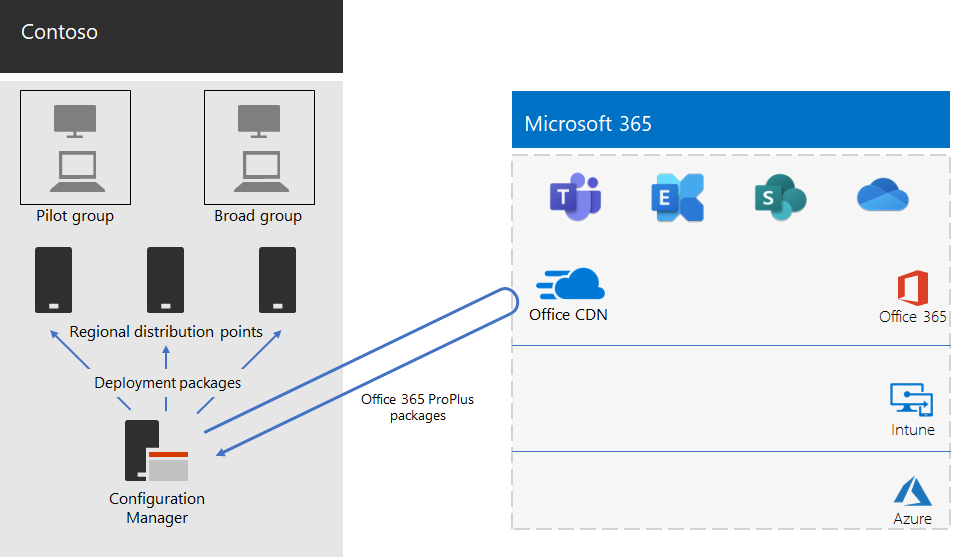
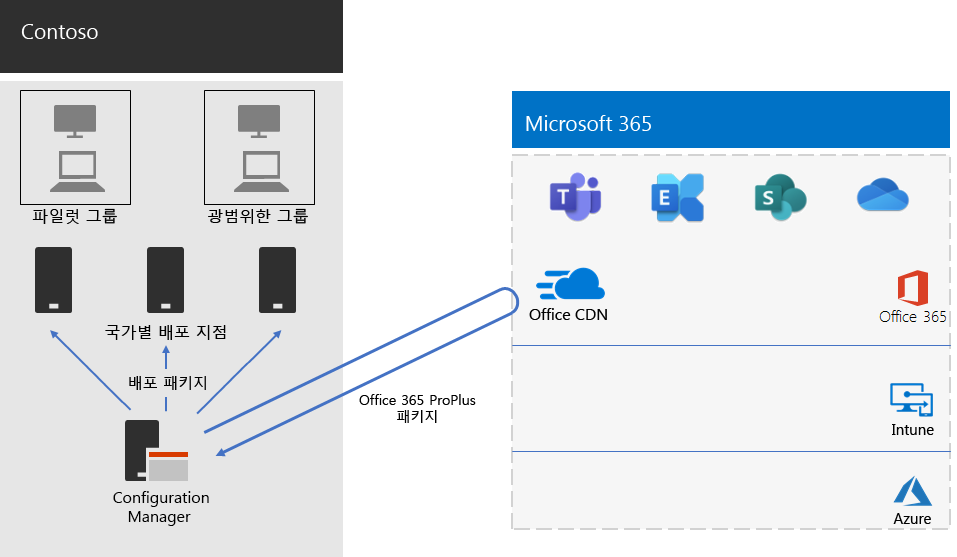
commit translated contents

diff --git a/microsoft-365/enterprise/step-6-os-deployment-and-feature-updates.md b/microsoft-365/enterprise/step-6-os-deployment-and-feature-updates.md
@@ -13,12 +13,12 @@ ms.collection:
 - Strat_O365_Enterprise
 ms.custom: ''
 description: OS 배포 및 기능 업데이트를 위한 옵션을 알아봅니다.
-ms.openlocfilehash: c789ac0d62fd0b8c915f21174cae2b81e49e0c97
-ms.sourcegitcommit: 70e920f76526f47fc849df615de4569e0ac2f4be
+ms.openlocfilehash: 7da7c9ade2be43e8c60726bafd69cc7939b7bddc
+ms.sourcegitcommit: 39bd4be7e8846770f060b5dd7d895fc8040b18f5
 ms.translationtype: HT
 ms.contentlocale: ko-KR
-ms.lasthandoff: 11/07/2019
-ms.locfileid: "38031673"
+ms.lasthandoff: 01/14/2020
+ms.locfileid: "41112682"
 ---
 # <a name="step-6-os-deployment-and-feature-updates"></a>6단계: 운영 체제 배포 및 기능 업데이트
 
@@ -49,13 +49,13 @@ ms.locfileid: "38031673"
 
 이미지 캡처를 진행하면서 최고 품질의 이미지 및 반복 가능한 프로세스를 보장하려면 가능한 한 많은 작업을 자동화하는 것이 좋습니다. 대부분의 배포에서는 캡처하기 전에 Windows 이미지에 가능한 한 적은 사용자 지정과 미리 설치된 앱을 배치하는 것이 좋습니다. 이것이 소위 말하는 ‘씬 이미지’ 접근 방식입니다. 이 방식은 이미지 내의 많은 앱을 제거하여 네트워크의 전체적인 대역폭을 절약할 수 있는 방법입니다. 씬 기본 이미지로 시작하고 사용자에게 맞게 앱, 언어 및 구성에 대해 계층을 동적으로 구성할 수 있습니다.
 
-빌드 및 캡처 중 프로세스 동안 System Center Configuration Manager(현재 분기) 및 Microsoft Deployment Toolkit와 같은 도구는 시스템 준비 도구(또는 Sysprep)와 "일반화" 명령을 함께 사용하여 Windows 10 설치를 이미지로 캡처하기 전에 이미지를 다시 봉인합니다.
+빌드 및 캡처 중 프로세스 동안 Microsoft Endpoint Configuration Manager(현재 분기) 및 Microsoft Deployment Toolkit와 같은 도구는 시스템 준비 도구(또는 Sysprep)와 "일반화" 명령을 함께 사용하여 Windows 10 설치를 이미지로 캡처하기 전에 이미지를 다시 봉인합니다.
 
-캡처한 이미지에는 Windows 이미지 또는 표준 Windows 설치 미디어와 같은 형식을 갖는 WIM이 포함됩니다. 사용자 지정 WIM 파일이 있으면 System Center Configuration Manager 또는 Microsoft Deployment Toolkit에서 OS 배포의 일부로 다른 작업 시퀀스를 사용하여 배포 관련 작업을 수행하고, 이미지를 적용하고, 환으로 Windows 이미지 적용 전후에 작업을 실행할 수 있습니다.
+캡처한 이미지에는 Windows 이미지 또는 표준 Windows 설치 미디어와 같은 형식을 갖는 WIM이 포함됩니다. 사용자 지정 WIM 파일이 있으면 Configuration Manager 또는 Microsoft Deployment Toolkit에서 OS 배포의 일부로 다른 작업 시퀀스를 사용하여 배포 관련 작업을 수행하고, 이미지를 적용하고, 환으로 Windows 이미지 적용 전후에 작업을 실행할 수 있습니다.
 
 [Windows 10 참조 이미지 만들기](https://docs.microsoft.com/windows/deployment/deploy-windows-mdt/create-a-windows-10-reference-image)
 
-[운영 체제를 설치하는 작업 시퀀스 만들기](https://docs.microsoft.com/sccm/osd/deploy-use/create-a-task-sequence-to-install-an-operating-system)
+[운영 체제를 설치하는 작업 시퀀스 만들기](https://docs.microsoft.com/configmgr/osd/deploy-use/create-a-task-sequence-to-install-an-operating-system)
 
 ### <a name="deployment-types"></a>배포 유형
 
@@ -73,7 +73,7 @@ ms.locfileid: "38031673"
 
 ### <a name="in-place-upgrade-using-task-sequence-automation"></a>작업 시퀀스 자동화를 사용한 현재 위치 업그레이드
 
-이러한 배포 유형 외에도, Windows 10을 포함하는 System Center Configuration Manager(현재 분기) 작업 시퀀스 및 업그레이드 작업 시퀀스를 사용한 현재 위치 업그레이드도 새롭게 사용할 수 있는 옵션입니다.
+이러한 배포 유형 외에도, Windows 10을 포함하는 Microsoft Endpoint Configuration Manager(현재 분기) 작업 시퀀스 및 업그레이드 작업 시퀀스를 사용한 현재 위치 업그레이드도 새롭게 사용할 수 있는 옵션입니다.
 
 이전 버전의 Windows에서 현재 위치 업그레이드를 수행하려면 작업 시퀀스가 필요하지 않지만, 엔터프라이즈 규모에서 배포할 때는 작업 시퀀스가 권장됩니다. 현재 위치 업그레이드에서는 응용 프로그램을 포함하는 사용자 지정 이미지를 적용할 수 었지만, 오프라인 서비스를 사용하여 기본 install.wim을 업데이트할 수 있습니다. 예를 들어 업그레이드를 수행하기 전에 최신 Windows 업데이트가 적용되었는지 확인할 수 있습니다.
 
@@ -87,7 +87,7 @@ ms.locfileid: "38031673"
 
 [Configuration Manager를 사용하여 Windows 10으로의 현재 위치 업그레이드 수행](https://docs.microsoft.com/windows/deployment/upgrade/upgrade-to-windows-10-with-system-center-configuraton-manager)
 
-[Configuration Manager에서 OS를 업그레이드하는 작업 시퀀스 만들기](https://docs.microsoft.com/sccm/osd/deploy-use/create-a-task-sequence-to-upgrade-an-operating-system)
+[Configuration Manager에서 OS를 업그레이드하는 작업 시퀀스 만들기](https://docs.microsoft.com/configmgr/osd/deploy-use/create-a-task-sequence-to-upgrade-an-operating-system)
 
 ### <a name="phased-deployment"></a>단계별 배포
 
@@ -95,11 +95,11 @@ ms.locfileid: "38031673"
 
 ![](media/step-6-os-deployment-and-feature-updates-media/step-6-os-deployment-and-feature-updates-media-4.png)
 
-### <a name="recommended-tools-system-center-configuration-manager-current-branch-and-the-microsoft-deployment-toolkit"></a>권장 도구: System Center Configuration Manager(현재 분기) 및 Microsoft Deployment Toolkit
+### <a name="recommended-tools-microsoft-endpoint-configuration-manager-current-branch-and-the-microsoft-deployment-toolkit"></a>권장 도구: Microsoft Endpoint Configuration Manager(현재 분기) 및 Microsoft Deployment Toolkit
 
 선택하는 배포 유형에 관계없이, 예측 가능성 및 반복 가능성을 위해 가능한 한 자동화될 수 있는지 확인할 수 있습니다. Microsoft는 자동화된 작업 시퀀스를 사용하여 OS 배포를 자동화하기 위한 다음 두 가지 솔루션을 제공합니다.
 
-  - **[System Center Configuration Manager](https://docs.microsoft.com/sccm/core/understand/introduction)**(ConfigMgr)는 소프트웨어 배포 및 소프트웨어 업데이트 관리를 위한 기능을 보완하기 위해 기본 제공 운영 체제 소프트웨어 배포 기능을 제공합니다. ConfigMgr은 모든 규모의 조직에서 광범위하게 사용되며, 4가지 Windows 배포 유형을 모두 지원합니다. 필요에 따라 Microsoft Intune에 ConfigMgr을 통합하여 배포 및 장치 관리를 위한 추가 기능을 추가할 수 있습니다.
+  - **[Microsoft Endpoint Configuration Manager](https://docs.microsoft.com/configmgr/core/understand/introduction)**(ConfigMgr)는 소프트웨어 배포 및 소프트웨어 업데이트 관리를 위한 기능을 보완하기 위해 기본 제공 운영 체제 소프트웨어 배포 기능을 제공합니다. ConfigMgr은 모든 규모의 조직에서 광범위하게 사용되며, 4가지 Windows 배포 유형을 모두 지원합니다. 필요에 따라 Microsoft Intune에 ConfigMgr을 통합하여 배포 및 장치 관리를 위한 추가 기능을 추가할 수 있습니다.
 
   - 또한 인기 있는 다른 배포 옵션 중 하나는 무료 **[Microsoft Deployment Toolkit](https://docs.microsoft.com/windows/deployment/deploy-windows-mdt/get-started-with-the-microsoft-deployment-toolkit)**(MDT)으로, 일반적으로 중소기업이 OS 배포에 사용합니다. 이 도구 키트에는 약간의 인프라만 필요합니다. MDT는 네트워크 부을 위해 WDS(Windows 배포 서비스)와 통합됩니다. 4가지 배포 유형과 응용 프로그램, 드라이버 및 설정 설치를 모두 지원합니다. 또한 MDT를 Configuration Manager와 통합할 수도 있습니다.
 
@@ -117,7 +117,7 @@ Windows 10에 새롭게 제공되는 옵션은 Windows Autopilot을 사용하여
 
 ## <a name="windows-update-for-business-for-feature-updates"></a>기능 업데이트를 위한 비즈니스용 Windows 업데이트
 
-비즈니스용 Windows 업데이트는 IT 전문가가 디바이스를 Windows 업데이트 서비스에 직접 연결하여 Windows 10 디바이스를 항상 최신 상태로 유지할 수 있도록 하는 무료 서비스입니다. 비즈니스용 Windows 업데이트는 그룹 정책 또는 MDM 솔루션(예: Microsoft Intune)을 통해 구성할 수 있으며, IT 전문가가 새 빌드가 유효한지 검사하기 위한 [배포 링](https://docs.microsoft.com/windows/deployment/update/waas-deployment-rings-windows-10-updates)을 만들 수 있도록 지원합니다. 이 기능은 WSUS(Windows Server Update Services), System Center Configuration Manager(현재 분기) 및 Microsoft Intune 등과 같은 기존 관리 도구에 통합됩니다. 또한 비즈니스용 Windows 업데이트는 대역폭 효율성을 최적화하고 네트워크 정체를 줄이는 데 도움이 되는 피어 투 피어 배달을 지원합니다.
+비즈니스용 Windows 업데이트는 IT 전문가가 디바이스를 Windows 업데이트 서비스에 직접 연결하여 Windows 10 디바이스를 항상 최신 상태로 유지할 수 있도록 하는 무료 서비스입니다. 비즈니스용 Windows 업데이트는 그룹 정책 또는 MDM 솔루션(예: Microsoft Intune)을 통해 구성할 수 있으며, IT 전문가가 새 빌드가 유효한지 검사하기 위한 [배포 링](https://docs.microsoft.com/windows/deployment/update/waas-deployment-rings-windows-10-updates)을 만들 수 있도록 지원합니다. 이 기능은 WSUS(Windows Server Update Services), Microsoft Endpoint Configuration Manager(현재 분기) 및 Microsoft Intune 등과 같은 기존 관리 도구에 통합됩니다. 또한 비즈니스용 Windows 업데이트는 대역폭 효율성을 최적화하고 네트워크 정체를 줄이는 데 도움이 되는 피어 투 피어 배달을 지원합니다.
 
 비즈니스용 Windows 업데이트에 대한 자세한 내용을 다음 설명서를 참조하세요.
 

diff --git a/microsoft-365/enterprise/windows-7-to-windows-10-upgrade-automated.md b/microsoft-365/enterprise/windows-7-to-windows-10-upgrade-automated.md
@@ -13,12 +13,12 @@ ms.collection:
 - Strat_O365_Enterprise
 ms.custom: ''
 description: 대규모 조직을 위한 Windows 7에서 Windows 10으로 자동 업그레이드
-ms.openlocfilehash: 6cf7b25c584b94b077b95b35be58f6cd5ef75ac5
-ms.sourcegitcommit: 547bfc5f1fec7545cbe71b1919454425556c9227
+ms.openlocfilehash: 7bca0a185bccbec1ee857b17817debfd7f06feb0
+ms.sourcegitcommit: 39bd4be7e8846770f060b5dd7d895fc8040b18f5
 ms.translationtype: HT
 ms.contentlocale: ko-KR
-ms.lasthandoff: 11/09/2019
-ms.locfileid: "38078087"
+ms.lasthandoff: 01/14/2020
+ms.locfileid: "41112702"
 ---
 # <a name="windows-7-to-windows-10-automated-in-place-upgrades-for-large-organizations"></a>대규모 조직을 위한 Windows 7에서 Windows 10으로 현재 위치에서 자동 업그레이드
 
@@ -40,7 +40,7 @@ Windows 10의 현재 위치 업그레이드는 파일 마이그레이션 또는 
 
 업그레이드 프로세스는 기본적으로 이전 Windows 설치를 업그레이드의 일부로 백업하므로 업그레이드 실패 시나 장치 또는 응용 프로그램이 업그레이드 후 제대로 작동하지 않는 경우 컴퓨터가 Windows 7로 롤백될 수 있습니다. 업그레이드된 PC는 기본적으로 10일 안에 필요한 경우 수동으로 Windows 7로 롤백할 수 있습니다.
 
-현재 위치 업그레이드는 [System Center Configuration Manager](https://docs.microsoft.com/sccm/osd/deploy-use/create-a-task-sequence-to-upgrade-an-operating-system) 또는 [Microsoft Deployment Toolkit](https://docs.microsoft.com/windows/deployment/upgrade/upgrade-to-windows-10-with-the-microsoft-deployment-toolkit)과 같은 운영 체제 배포 도구를 사용하여 자동화할 수 있습니다. 이 문서에서는 추가 지원을 위해 관련 리소스에 대한 링크와 함께 자동화된 접근 방법과 최적화를 중점적으로 설명합니다.
+현재 위치 업그레이드는 [Microsoft Endpoint Configuration Manager](https://docs.microsoft.com/configmgr/osd/deploy-use/create-a-task-sequence-to-upgrade-an-operating-system) 또는 [Microsoft Deployment Toolkit](https://docs.microsoft.com/windows/deployment/upgrade/upgrade-to-windows-10-with-the-microsoft-deployment-toolkit)과 같은 운영 체제 배포 도구를 사용하여 자동화할 수 있습니다. 이 문서에서는 추가 지원을 위해 관련 리소스에 대한 링크와 함께 자동화된 접근 방법과 최적화를 중점적으로 설명합니다.
 
 ## <a name="upgrading-a-small-number-of-computers"></a>적은 수의 컴퓨터 업그레이드
 
@@ -48,7 +48,7 @@ Windows 10의 현재 위치 업그레이드는 파일 마이그레이션 또는 
 
 ## <a name="how-to-upgrade-many-computers"></a>많은 컴퓨터를 업그레이드하는 방법
 
-수십 또는 수천 대의 컴퓨터를 관리하는 경우 가장 좋은 방법은 System Center Configuration Manager 또는 Microsoft Deployment Toolkit을 사용하여 작업 순서 자동화를 사용하여 현재 위치 업그레이드를 수행하는 것입니다. 이 과정은 업그레이드하는 PC의 수에 따라 대부분의 상황에서 매우 안정적이지만 여전히 규모에 따라 성공할 수 있도록 필요한 테스트 및 제어 기능을 갖추고 있습니다.
+수십 또는 수천 대의 컴퓨터를 관리하는 경우 가장 좋은 방법은 Microsoft Endpoint Configuration Manager 또는 Microsoft Deployment Toolkit을 사용하여 작업 순서 자동화를 사용하여 현재 위치 업그레이드를 수행하는 것입니다. 이 과정은 업그레이드하는 PC의 수에 따라 대부분의 상황에서 매우 안정적이지만 여전히 규모에 따라 성공할 수 있도록 필요한 테스트 및 제어 기능을 갖추고 있습니다.
 
 즉, Azure Active Directory, Office 및 LOB(기간 업무) 앱 제공 및 패키징 및 사용자 파일 마이그레이션과 관련된 디렉토리 준비 또는 작업을 건너 뛸 수 있으므로 업그레이드의 일부로 이러한 측면이 유지되므로 최소한의 보안이 유지되어야 합니다. 이러한 영역은 시간이 지나면서 모두 개선될 수 있습니다.
 
@@ -78,13 +78,13 @@ Windows 10의 현재 위치 업그레이드는 파일 마이그레이션 또는 
 
   - 맬웨어 방지, VPN 또는 가상화와 같은 낮은 수준의 코드 솔루션
 
-[업그레이드 작업 순서](https://docs.microsoft.com/sccm/osd/deploy-use/create-a-task-sequence-to-upgrade-an-operating-system) 서식 파일은 System Center Configuration Manager 현재 분기에 기본 제공되며, 여러 릴리스에서 사용할 수 있습니다. 최근 릴리스에서는 장치 및 Office 호환성 준비 상태를 확인하고 네트워크 트래픽을 줄이며 OneDrive 백업과 같은 새로운 옵션을 구성하는 프로세스가 더욱 효율적으로 수행되도록 하는 System Center Configuration Manager에 대한 중요한 기술 향상이 있었습니다. 이 [Microsoft Mechanics 쇼](https://youtu.be/CYRnAmCD7ls)에서 System Center Configuration Manager OS 배포에 대한 최신 업데이트를 확인하세요.
+[업그레이드 작업 순서](https://docs.microsoft.com/configmgr/osd/deploy-use/create-a-task-sequence-to-upgrade-an-operating-system) 서식 파일은 Microsoft Endpoint Configuration Manager 현재 분기에 기본 제공되며, 여러 릴리스에서 사용할 수 있습니다. 최근 릴리스에서는 장치 및 Office 호환성 준비 상태를 확인하고 네트워크 트래픽을 줄이며 OneDrive 백업과 같은 새로운 옵션을 구성하는 프로세스가 더욱 효율적으로 수행되도록 하는 Configuration Manager에 대한 중요한 기술 향상이 있었습니다. 이 [Microsoft Mechanics 쇼](https://youtu.be/CYRnAmCD7ls)에서 Configuration Manager OS 배포에 대한 최신 업데이트를 확인하세요.
 
-System Center Configuration Manager를 사용하지 않는 경우 Microsoft Deployment Toolkit을 사용하여 업그레이드 배포 작업 순서를 작성하고 실행할 수 있습니다.
+Microsoft Endpoint Configuration Manager를 사용하지 않는 경우 Microsoft Deployment Toolkit을 사용하여 업그레이드 배포 작업 순서를 작성하고 실행할 수 있습니다.
 
 ## <a name="pre-cache-task-sequence-upgrades"></a>사전 캐시 작업 순서 업그레이드
 
-Configuration Manager 배포 작업 순서의 [사전 캐시 옵션](https://docs.microsoft.com/sccm/osd/deploy-use/create-a-task-sequence-to-upgrade-an-operating-system#configure-pre-cache-content)을 사용하면 작업 순서에 따라 운영 체제를 업그레이드하기 전에 클라이언트에서 관련 OS 업그레이드 패키지 콘텐츠를 다운로드할 수 있습니다. 이전에는 작업 시퀀스를 시작하면 패키지 내용 다운로드가 시작되었습니다. 사전 캐시 콘텐츠는 클라이언트가 배포를 받자마자 해당 OS 업그레이드 패키지 및 기타 모든 참조된 컨텐츠만 다운로드할 수 있는 옵션도 제공됩니다.
+Configuration Manager 배포 작업 순서의 [사전 캐시 옵션](https://docs.microsoft.com/configmgr/osd/deploy-use/create-a-task-sequence-to-upgrade-an-operating-system#configure-pre-cache-content)을 사용하면 작업 순서에 따라 운영 체제를 업그레이드하기 전에 클라이언트에서 관련 OS 업그레이드 패키지 콘텐츠를 다운로드할 수 있습니다. 이전에는 작업 시퀀스를 시작하면 패키지 내용 다운로드가 시작되었습니다. 사전 캐시 콘텐츠는 클라이언트가 배포를 받자마자 해당 OS 업그레이드 패키지 및 기타 모든 참조된 컨텐츠만 다운로드할 수 있는 옵션도 제공됩니다.
 
 호환성 검사와 결합된 사전 캐시 작업 시퀀스
 

diff --git a/microsoft-365/enterprise/modern-desktop-deployment-and-management-lab.md b/microsoft-365/enterprise/modern-desktop-deployment-and-management-lab.md
@@ -13,18 +13,18 @@ ms.collection:
 - Strat_O365_Enterprise
 ms.custom: ''
 description: Windows 및 Office 배포 랩 키트에 액세스하는 방법 및 위치에 대해 알아보세요.
-ms.openlocfilehash: 0083eb91b49561c858cacc94a148e97c7463b754
-ms.sourcegitcommit: 0ad0092d9c5cb2d69fc70c990a9b7cc03140611b
+ms.openlocfilehash: 1d95edce079f515572c977913da2ee432514f983
+ms.sourcegitcommit: 39bd4be7e8846770f060b5dd7d895fc8040b18f5
 ms.translationtype: HT
 ms.contentlocale: ko-KR
-ms.lasthandoff: 12/19/2019
-ms.locfileid: "40801363"
+ms.lasthandoff: 01/14/2020
+ms.locfileid: "41112512"
 ---
 # <a name="windows-and-office-deployment-lab-kit"></a>Windows 및 Office 배포 랩 키트
 
 이러한 다운로드 가능 실무 중심 랩은 관련된 구성 및 배포 후 관리 고려 사항과 Windows 10 배포 및 Office 365 배포를 중점적으로 다룹니다. 이 교육 과정은 Windows 7 수명 종료를 대비하는 조직에 반드시 권장되며, 현재 Windows 10 및 Office 365 Plus 또는 Office 2019를 사용하는 경우에도 적용됩니다. 여기에는 Windows 10, Office 365 ProPlus, Enterprise Mobility + Security, 관련된 제품 및 서비스에 대한 가이드가 포함됩니다.
 
-이 랩은 Windows 10 Enterprise 및 Office 365 ProPlus를 실행하는 데스크톱의 배포 및 관리를 계획, 테스트 및 검증하는 데 도움을 주기 위해 만들어졌습니다. 이 랩에서는 System Center Configuration Manager, Desktop Analytics, Office 사용자 지정 도구, OneDrive, Windows Autopilot 등의 데스크톱 배포 도구에 설명된 단계와 도구를 다룹니다.
+이 랩은 Windows 10 Enterprise 및 Office 365 ProPlus를 실행하는 데스크톱의 배포 및 관리를 계획, 테스트 및 검증하는 데 도움을 주기 위해 만들어졌습니다. 이 랩에서는 Microsoft Endpoint Configuration Manager, Desktop Analytics, Office 사용자 지정 도구, OneDrive, Windows Autopilot 등의 데스크톱 배포 도구에 설명된 단계와 도구를 다룹니다.
 
 Windows 10 및 Office 365 ProPlus의 [데스크톱 배포](https://www.aka.ms/howtoshift) 프로세스의 일환으로 배포 도구 업데이트를 탐색하고 배포 관련 자동화를 테스트 할 때 샌드박스 또는 격리된 랩 환경을 만드는 것이 좋습니다.
 
@@ -38,7 +38,7 @@ Windows 10 및 Office 365 ProPlus의 [데스크톱 배포](https://www.aka.ms/ho
 
   - Windows 10 Enterprise, 버전 1909
   - Windows 7 Enterprise
-  - System Center Configuration Manager, 버전 1902
+  - Microsoft Endpoint Configuration Manager, 버전 1902
   - Windows 10용 Windows Assessment and Deployment Kit, 버전 1903
   - Microsoft Deployment Toolkit
   - Microsoft Application Virtualization(App-V) 5.1
@@ -72,7 +72,7 @@ Windows 10 및 Office 365 ProPlus의 [데스크톱 배포](https://www.aka.ms/ho
 
 ### <a name="office-and-lob-app-delivery"></a>**Office 및 LOB 앱 배달**
 
-  - System Center Configuration Manager를 사용하여 Office 365 ProPlus 배포
+  - Microsoft Endpoint Configuration Manager를 사용하여 Office 365 ProPlus 배포
   - Microsoft Intune을 사용하여 Office 365 ProPlus 배포
   - Microsoft Intune을 사용하여 앱 배포 및 관리
   - 비즈니스용 Microsoft Store를 사용하여 앱 배포 및 셀프 서비스 설치
@@ -126,7 +126,7 @@ Windows 10 및 Office 365 ProPlus의 [데스크톱 배포](https://www.aka.ms/ho
 
   - [Microsoft Mechanics의 데스크톱 배포 시리즈 비디오](https://www.aka.ms/watchhowtoshift)
 
-  - [System Center Configuration Manager OS 배포](https://docs.microsoft.com/sccm/osd/understand/introduction-to-operating-system-deployment)
+  - [Microsoft Endpoint Configuration Manager OS 배포](https://docs.microsoft.com/configmgr/osd/understand/introduction-to-operating-system-deployment)
 
   - [<span class="underline">Windows 10 배포 계획</span>](https://docs.microsoft.com/windows/deployment/planning/index)
 

diff --git a/microsoft-365/enterprise/step-5-security-and-compliance.md b/microsoft-365/enterprise/step-5-security-and-compliance.md
@@ -13,12 +13,12 @@ ms.collection:
 - Strat_O365_Enterprise
 ms.custom: ''
 description: 중요한 Windows/Office 보안 및 준수 고려 사항에 대해 알아봅니다.
-ms.openlocfilehash: 10fc9ca58d9b48f752bdfed860b805e4f5663d6a
-ms.sourcegitcommit: 70e920f76526f47fc849df615de4569e0ac2f4be
+ms.openlocfilehash: b4ef8b4d4e5e6277ea129b5a9454983459266462
+ms.sourcegitcommit: 39bd4be7e8846770f060b5dd7d895fc8040b18f5
 ms.translationtype: HT
 ms.contentlocale: ko-KR
-ms.lasthandoff: 11/07/2019
-ms.locfileid: "38031693"
+ms.lasthandoff: 01/14/2020
+ms.locfileid: "41112562"
 ---
 # <a name="step-5-security-and-compliance-considerations"></a>5단계: 보안 및 준수 고려 사항
 
@@ -117,7 +117,7 @@ Windows 10의 **[Windows Defender 응용 프로그램 컨트롤](https://docs.mi
 
 #### <a name="microsoft-intune"></a>Microsoft Intune
 
-[Microsoft Intune](https://docs.microsoft.com/intune/introduction-intune)은 IOS, Android 및 Windows 장치를 포함하는 모바일 시나리오에 대한 클라우드 기반 관리 서비스로 사용되며, 이제 공동 관리 부서에서 System Center Configuration Manager에서 관리되는 특정 워크로드에 대한 컨트롤을 보완하고 확장하도록 구성할 수 있습니다. 한 가지 장점은 보호된 리소스에 액세스하는 장치 중에서 관리되지 않거나 도메인에 가입되지 않았거나 Azure AD에 가입되지 않은 모든 장치의 경우 장치 관리 부서에 등록하도록 요구할 수 있다는 것입니다. 또한 운영 체제 및 응용 프로그램 수준에서 세분화된 구성 및 준수 정책 적용을 활용할 수도 있습니다. 응용 프로그램 정책 및 설정을 중앙에서 구성하고, Microsoft Intune을 사용하여 Office 365 ProPlus 및 Windows 10의 스토어 앱에 적용할 수 있습니다.
+[Microsoft Intune](https://docs.microsoft.com/intune/introduction-intune)은 IOS, Android 및 Windows 장치를 포함하는 모바일 시나리오에 대한 클라우드 기반 관리 서비스로 사용되며, 이제 공동 관리 부서에서 Configuration Manager에서 관리되는 특정 워크로드에 대한 컨트롤을 보완하고 확장하도록 구성할 수 있습니다. 한 가지 장점은 보호된 리소스에 액세스하는 장치 중에서 관리되지 않거나 도메인에 가입되지 않았거나 Azure AD에 가입되지 않은 모든 장치의 경우 장치 관리 부서에 등록하도록 요구할 수 있다는 것입니다. 또한 운영 체제 및 응용 프로그램 수준에서 세분화된 구성 및 준수 정책 적용을 활용할 수도 있습니다. 응용 프로그램 정책 및 설정을 중앙에서 구성하고, Microsoft Intune을 사용하여 Office 365 ProPlus 및 Windows 10의 스토어 앱에 적용할 수 있습니다.
 
 ## <a name="next-step"></a>다음 단계
 

diff --git a/microsoft-365/enterprise/desktop-deployment-center-home.md b/microsoft-365/enterprise/desktop-deployment-center-home.md
@@ -14,17 +14,17 @@ ms.collection:
 - Strat_O365_Enterprise
 ms.custom: ''
 description: 데스크톱 배포 센터의 개요입니다.
-ms.openlocfilehash: 0e901a162be61c7be2465a0054669ebc459e6f3f
-ms.sourcegitcommit: 70e920f76526f47fc849df615de4569e0ac2f4be
+ms.openlocfilehash: b7f4ef60b4f9c82055dce42291b1abca504a8248
+ms.sourcegitcommit: 39bd4be7e8846770f060b5dd7d895fc8040b18f5
 ms.translationtype: HT
 ms.contentlocale: ko-KR
-ms.lasthandoff: 11/07/2019
-ms.locfileid: "38031093"
+ms.lasthandoff: 01/14/2020
+ms.locfileid: "41112552"
 ---
 # <a name="desktop-deployment-center"></a>데스크톱 배포 센터
 
 <strong>Windows 7에서 Windows 10으로 업그레이드</strong>
-<p>Windows 7 연장 지원은 2020년 1월 14일에 종료됩니다. Windows 7에서 Windows 10으로의 전체 업그레이드가 가장 빠른 배포 방법입니다. System Center Configuration Manager를 사용하여 <a href="https://docs.microsoft.com/microsoft-365/enterprise/windows-7-to-windows-10-upgrade-manual">단일 PC를 업그레이드</a>하거나 <a href="https://docs.microsoft.com/microsoft-365/enterprise/windows-7-to-windows-10-upgrade-automated">수천 대의 PC를 업그레이드</a>할 수 있습니다. 전체 업그레이드를 사용하여 앱 제공, 파일 마이그레이션, 사용자 지정 이미징 또는 클라우드 기반 서비스 사용에 집중할 필요가 없습니다. 이미 가지고 있는 도구를 사용하여 기존 PC를 업그레이드하고 업그레이드를 위한 다음 배포 단계에 집중할 수 있습니다: </p>
+<p>Windows 7 연장 지원은 2020년 1월 14일에 종료됩니다. Windows 7에서 Windows 10으로의 전체 업그레이드가 가장 빠른 배포 방법입니다. Microsoft Endpoint Configuration Manager를 사용하여 <a href="https://docs.microsoft.com/microsoft-365/enterprise/windows-7-to-windows-10-upgrade-manual">단일 PC를 업그레이드</a>하거나 <a href="https://docs.microsoft.com/microsoft-365/enterprise/windows-7-to-windows-10-upgrade-automated">수천 대의 PC를 업그레이드</a>할 수 있습니다. 전체 업그레이드를 사용하여 앱 제공, 파일 마이그레이션, 사용자 지정 이미징 또는 클라우드 기반 서비스 사용에 집중할 필요가 없습니다. 이미 가지고 있는 도구를 사용하여 기존 PC를 업그레이드하고 업그레이드를 위한 다음 배포 단계에 집중할 수 있습니다: </p>
 
 <p>
 </p>
